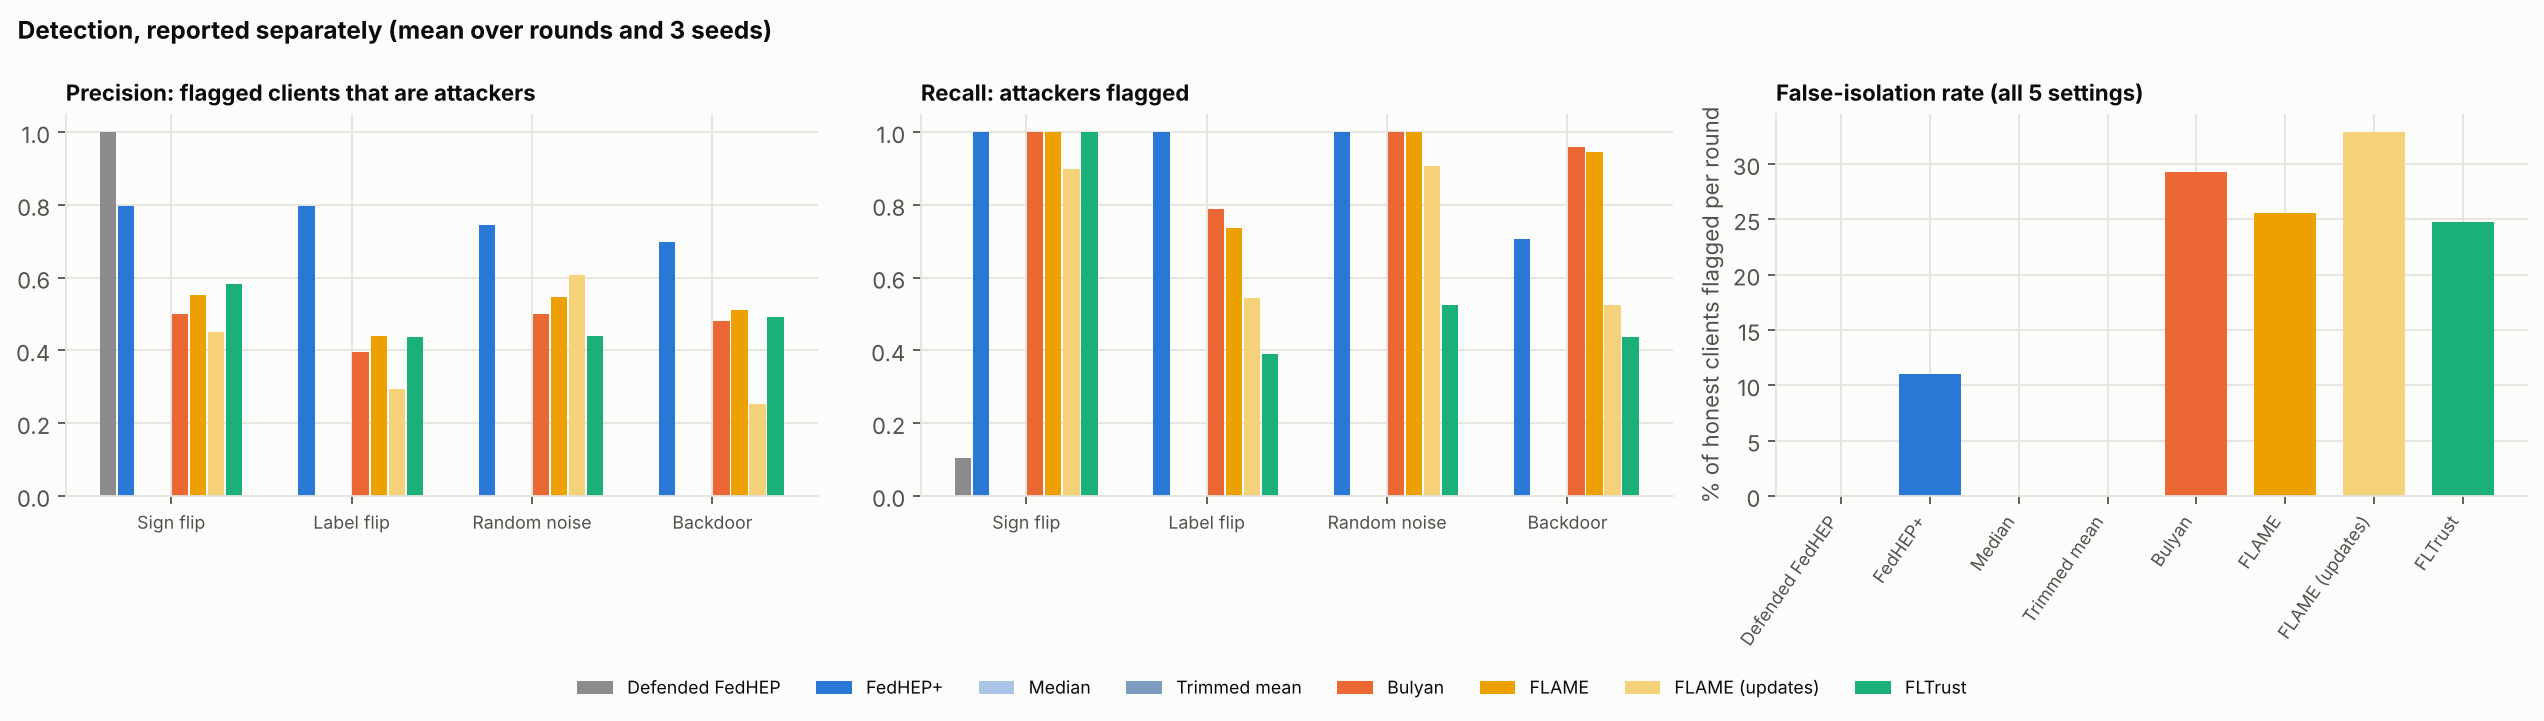
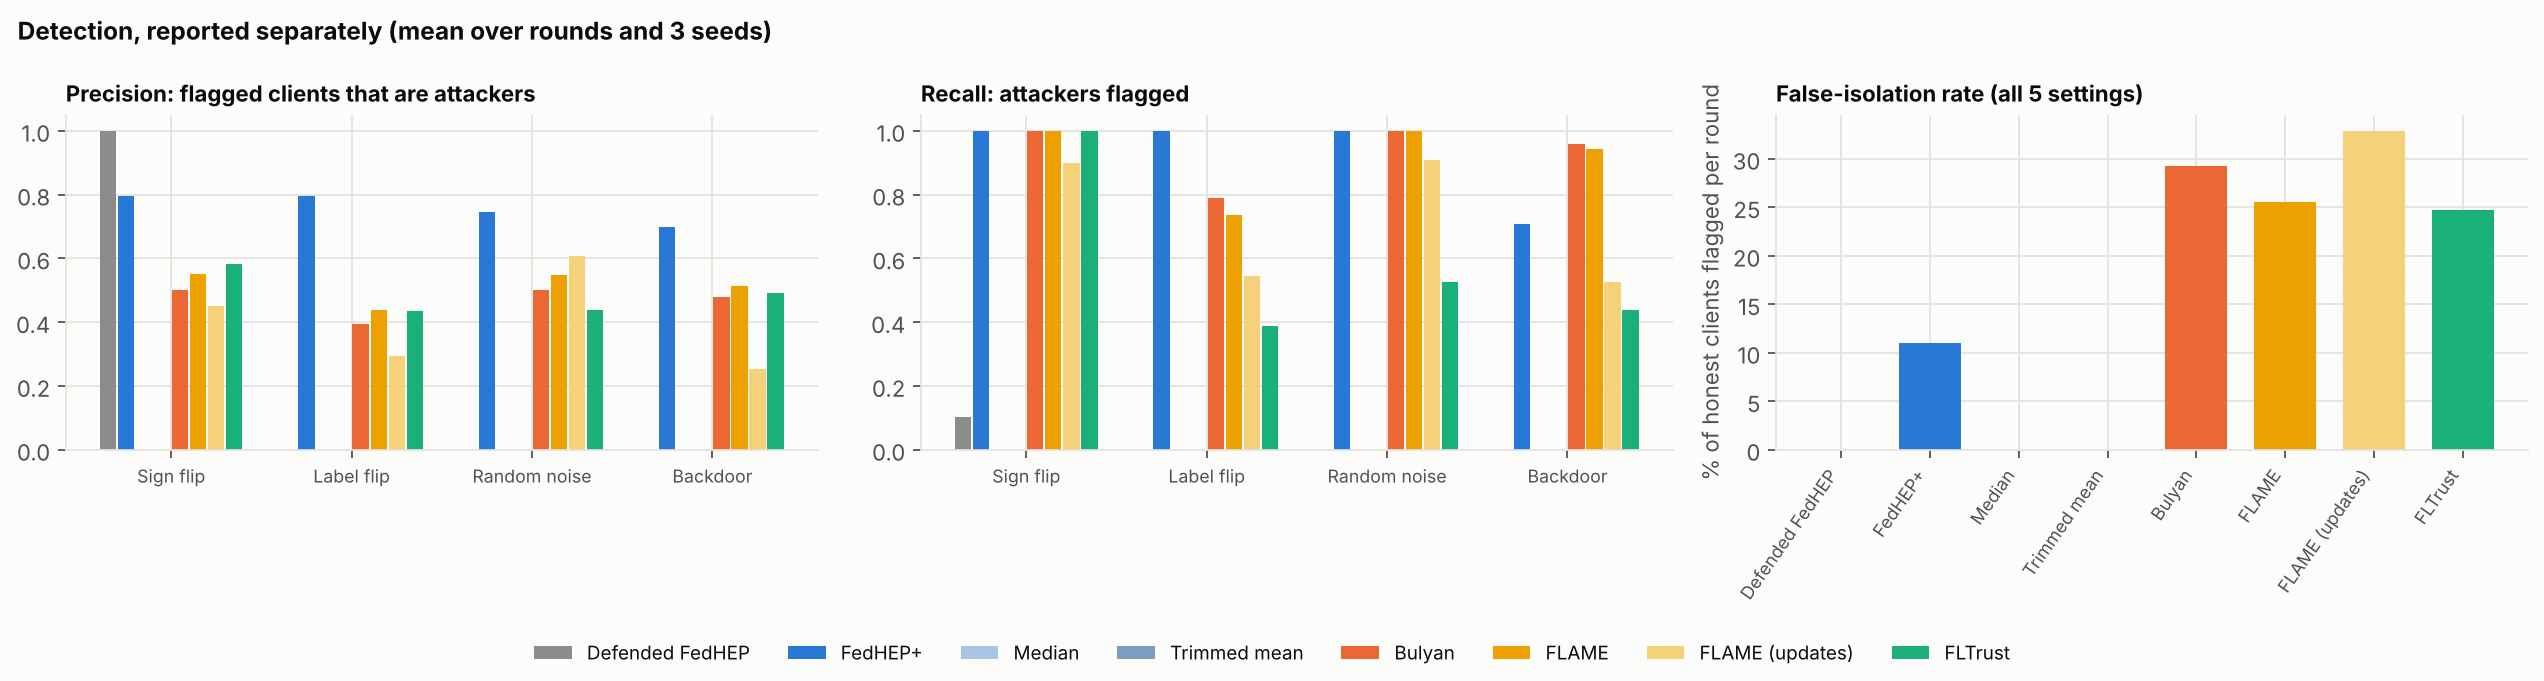
Split the follow-up queue; 20- and 30-client sweeps; Intel GPU support
- Follow-up runs split into self-contained sweep files (each with its own
  no-defense baselines) so they can run on the Mac and the Acer:
  followup_q_{sign,backdoor}, followup_n20_{sign,backdoor} (5 / 7 of 20
  attackers) and followup_n30_{sign,backdoor} (6 / 9 / 12 of 30).
- run.device "auto" now also picks Intel GPUs (xpu); FLTrust's server
  training saves and restores the xpu random state too.
- Chart legends moved below the plots, clear of the titles.
- Experiment log: run plan in priority order and Acer setup steps.

Claude-Session: https://claude.ai/code/session_01PHkRgbQ7u74x39uCQjqDze

diff --git a/scripts/plot_followup.py b/scripts/plot_followup.py
@@ -55,12 +55,12 @@ def fig_three_seeds(runs: dict) -> None:
     ax.set_xticks(range(len(SETTINGS)), [t for _, t in SETTINGS])
     ax.set_ylim(30, 52)
     ax.set_ylabel("Accuracy, honest clients (%)")
-    ax.set_title("Accuracy (mean ± sd, 3 seeds, 3 of 15 attackers, α = 0.5)", pad=26)
-    ax.legend(ncols=8, fontsize=8, loc="lower left", bbox_to_anchor=(0, 1.07), frameon=False)
+    ax.set_title("Accuracy (mean ± sd, 3 seeds, 3 of 15 attackers, α = 0.5)")
     ax2.set_xticks(range(len(METHODS)), [lab for _, lab, _ in METHODS], rotation=55, ha="right", fontsize=8)
     ax2.set_ylabel("Backdoor success (%)")
     ax2.set_title("Backdoor success · lower is better")
-    fig.tight_layout()
+    fig.tight_layout(rect=(0, 0.07, 1, 1))  # leave a band at the bottom for the legend, clear of every title
+    fig.legend(*ax.get_legend_handles_labels(), ncols=8, fontsize=8.5, loc="lower center", frameon=False)
     pr.save(fig, "phase5_three_seeds.png")
 
 
@@ -121,14 +121,14 @@ def fig_detection(runs: dict) -> None:
         ax.set_xticks(range(len(attacks)), [t for _, t in attacks], fontsize=8)
         ax.set_ylim(0, 1.05)
         ax.set_title(title, fontsize=10)
-    fig.legend(*axes[0].get_legend_handles_labels(), fontsize=8, ncols=8, loc="lower center",
-               bbox_to_anchor=(0.5, -0.06), frameon=False)
+    legend = axes[0].get_legend_handles_labels()
     axes[2].set_xticks(range(len(METHODS)), [lab for _, lab, _ in METHODS], rotation=55, ha="right", fontsize=8)
     axes[2].set_ylabel("% of honest clients flagged per round")
     axes[2].set_title("False-isolation rate (all 5 settings)", fontsize=10)
     fig.suptitle("Detection, reported separately (mean over rounds and 3 seeds)", x=0.01, ha="left",
                  fontweight="bold", fontsize=11)
-    fig.tight_layout()
+    fig.tight_layout(rect=(0, 0.07, 1, 1))
+    fig.legend(*legend, fontsize=8.5, ncols=8, loc="lower center", frameon=False)
     pr.save(fig, "detection_breakdown.png")
 
 

diff --git a/src/rfl/server/robust_fedhep_server.py b/src/rfl/server/robust_fedhep_server.py
@@ -58,7 +58,8 @@ class RobustFedHEPServer(DefendedFedHEPServer):
         device = self.root.x_train.device
         cpu_state = torch.get_rng_state()
         dev_state = (torch.mps.get_rng_state() if device.type == "mps" else
-                     torch.cuda.get_rng_state(device) if device.type == "cuda" else None)
+                     torch.cuda.get_rng_state(device) if device.type == "cuda" else
+                     torch.xpu.get_rng_state(device) if device.type == "xpu" else None)
         self._load(start)
         if self.root_memory.local_head is not None:
             self.model.fc2_local.load_state_dict(self.root_memory.local_head)
@@ -66,6 +67,8 @@ class RobustFedHEPServer(DefendedFedHEPServer):
         torch.set_rng_state(cpu_state)
         if dev_state is not None and device.type == "mps":
             torch.mps.set_rng_state(dev_state)
+        elif dev_state is not None and device.type == "xpu":
+            torch.xpu.set_rng_state(dev_state, device)
         elif dev_state is not None:
             torch.cuda.set_rng_state(dev_state, device)
         return flatten(self.model.state_dict()) - start

diff --git a/src/rfl/experiment/config.py b/src/rfl/experiment/config.py
@@ -29,7 +29,7 @@ class RunConfig:
     rounds: int = 25                     # authors' recorded Table 2 runs (their runner's default is 20)
     eval_every: int = 5                  # authors' eval_interval; the last round is always evaluated
     seed: int = 42
-    device: str = "auto"                 # auto: cuda, then mps, then cpu
+    device: str = "auto"                 # auto: cuda, then xpu, then mps, then cpu
     output_dir: str = "outputs"
 
 

diff --git a/src/rfl/experiment/runner.py b/src/rfl/experiment/runner.py
@@ -28,6 +28,8 @@ def pick_device(name: str) -> torch.device:
         return torch.device(name)
     if torch.cuda.is_available():
         return torch.device("cuda")
+    if hasattr(torch, "xpu") and torch.xpu.is_available():  # Intel GPUs (e.g. the Acer's Arc 130V)
+        return torch.device("xpu")
     if torch.backends.mps.is_available():
         return torch.device("mps")
     return torch.device("cpu")

diff --git a/docs/EXPERIMENT_LOG.md b/docs/EXPERIMENT_LOG.md
@@ -660,7 +660,7 @@ It does drop: **sign flipping costs Defended FedHEP 10.3 points** (48.4 → 38.1
 
 **Weights-only grouping vs the defense.** Agreed: weights-only grouping changed clean accuracy by +0.3 over three seeds, while the defense changed sign-flip accuracy by +8.3 (+12.6 with 5 attackers) and backdoor success by −58 points. The defense is the more promising direction.
 
-### Run plan for your Mac (⏳, about 14 h in total, in this order)
+### Run plan for your Mac (superseded by the 2026-11-13 run plan below)
 1. `followup_diagnostics.yaml`: MAD per round at full scale, absolute floor 0.01 / 0.03, patience 3 (36 runs).
 2. `followup_attacks.yaml`: ALIE and Min-Max vs Defended FedHEP, FedHEP+, FLAME, Bulyan (24 runs).
 3. `followup_q.yaml`: q = 0.1 / 0.3 / 0.4 (36 runs).
@@ -690,11 +690,27 @@ So "the MAD shrinks" is not what happens. What changes is that the protection fr
 - **No-defense baselines** added to the queued sweeps: undefended FedHEP in `followup_attacks` (FedAvg can't run ALIE/Min-Max: those need FedHEP's upload hook) and FedAvg + undefended FedHEP in `followup_q`. The main Phase 2 settings already have both (`p2__fedavg`, `p2__fedhep`).
 - **Larger experiments:** `followup_scale.yaml`, 30 clients with 6 / 9 / 12 attackers (20 / 30 / 40%), sign flip and backdoor, for FedAvg, undefended FedHEP, Defended FedHEP, FedHEP+ and FLAME (105 runs). A toy check at 12 of 30 shows FedHEP+'s first-round margin is thin at 40% (attackers' z ≈ −3 against the −2.5 cut, 8 of 12 left out in round 1); all 12 were isolated in round 2.
 
-### Run plan for your Mac (about 37 h in total, in this order; each sweep can be stopped and resumed)
-| Sweep | Runs | About | Question it answers |
-|---|---|---|---|
-| `followup_diagnostics.yaml` | 36 | 5 h | real MAD per round; absolute floor 0.01 / 0.03; patience 3 |
-| `followup_attacks.yaml` | 30 | 4 h | ALIE and Min-Max vs no defense, Defended FedHEP, FedHEP+, FLAME, Bulyan |
-| `followup_q.yaml` | 72 | 9 h | q = 0.1 / 0.3 / 0.4 (authors' rule), with no-defense baselines |
-| `followup_holdout.yaml` | 10 | 1.5 h | held-out setting: α = 0.2, 20 clients, 4 attackers, seed 2026 |
-| `followup_scale.yaml` | 105 | 14 h | 30 clients, 20–40% attackers, with no-defense baselines |
+### Run plan (2026-11-13: split into self-contained chunks)
+Measured on your Mac: about 11–14 minutes per run (the earlier estimate of 8 was too low), so the full queue is about 2 days of GPU time. Each file below contains its own baselines (no-defense FedAvg and undefended FedHEP where they apply), so every file can run on either machine without mixing devices inside one comparison. Run them in priority order; each can be stopped and resumed.
+
+| Priority | Sweep | Runs | About | Question it answers |
+|---|---|---|---|---|
+| 1 | `followup_diagnostics.yaml` (running; 9 of 36 done) | 36 | 5 h left | real MAD per round; absolute floor 0.01 / 0.03; patience 3 |
+| 2 | `followup_attacks.yaml` | 30 | 6 h | ALIE and Min-Max vs no defense, Defended FedHEP, FedHEP+, FLAME, Bulyan |
+| 3 | `followup_n20_sign.yaml` | 45 | 8 h | 20 clients, 5 / 7 sign flippers (25 / 35%), plus no attack |
+| 4 | `followup_n20_backdoor.yaml` | 30 | 6 h | 20 clients, 5 / 7 backdoor attackers |
+| 5 | `followup_holdout.yaml` | 10 | 2 h | held-out setting: α = 0.2, 20 clients, 4 attackers, seed 2026 |
+| 6 | `followup_q_sign.yaml` | 36 | 6 h | q = 0.1 / 0.3 / 0.4, sign flip |
+| 7 | `followup_q_backdoor.yaml` | 36 | 6 h | q = 0.1 / 0.3 / 0.4, backdoor |
+| 8 | `followup_n30_sign.yaml` | 60 | 11 h | 30 clients, 6 / 9 / 12 sign flippers (20–40%), plus no attack |
+| 9 | `followup_n30_backdoor.yaml` | 45 | 8 h | 30 clients, 6 / 9 / 12 backdoor attackers |
+
+`followup_generalization.yaml` is superseded (kept for the record; do not run).
+
+**Two machines.** The Mac runs priorities 1–4 in order. If the Acer's Intel GPU turns out to be usable (one 2-round benchmark decides, below), it takes files from the bottom of the list (9, 8, 7, …) and the two meet in the middle. A file is never split between machines: results for the same seed differ slightly between Apple and Intel GPUs, so all methods in one comparison must run on the same device. Each run records its device in `metrics.json`.
+
+**Setting up the Acer as a second runner** (Ubuntu, Core Ultra 5 226V, Intel Arc 130V, 16 GB). Its integrated GPU is reached through PyTorch's `xpu` device, which RFL Lab now picks automatically (`run.device: auto` tries cuda, then xpu, then mps, then cpu).
+1. Install Intel's GPU driver packages for Ubuntu (Intel's "client GPU" instructions), then PyTorch with XPU support: `pip install torch torchvision --index-url https://download.pytorch.org/whl/xpu`. Check with `python -c "import torch; print(torch.xpu.is_available())"`.
+2. `git clone https://github.com/BinhPhamTieSinger/RFL_Lab.git` into `/srv/projects`, install with `pip install -e ".[dev]"`, and copy CIFAR-100 from the Mac (`Paper_Reproduction/data/cifar-100-python`, 178 MB) to the matching `../Paper_Reproduction/data` path.
+3. Benchmark 2 rounds: `time python scripts/run.py configs/cifar100_fedhep_defended.yaml --set run.rounds=2 run.eval_every=2 name=bench run.output_dir=outputs_bench`. One round on the Mac takes about 25 s (12 min / 30 rounds). The Acer is worth using if its round takes under about 1 minute; on CPU alone it will be far slower.
+4. Run sweeps from the bottom of the list, then copy their run folders back into the Mac's `outputs/` (`scp -r`). Every run folder holds only `metrics.json` and `config.yaml`.
